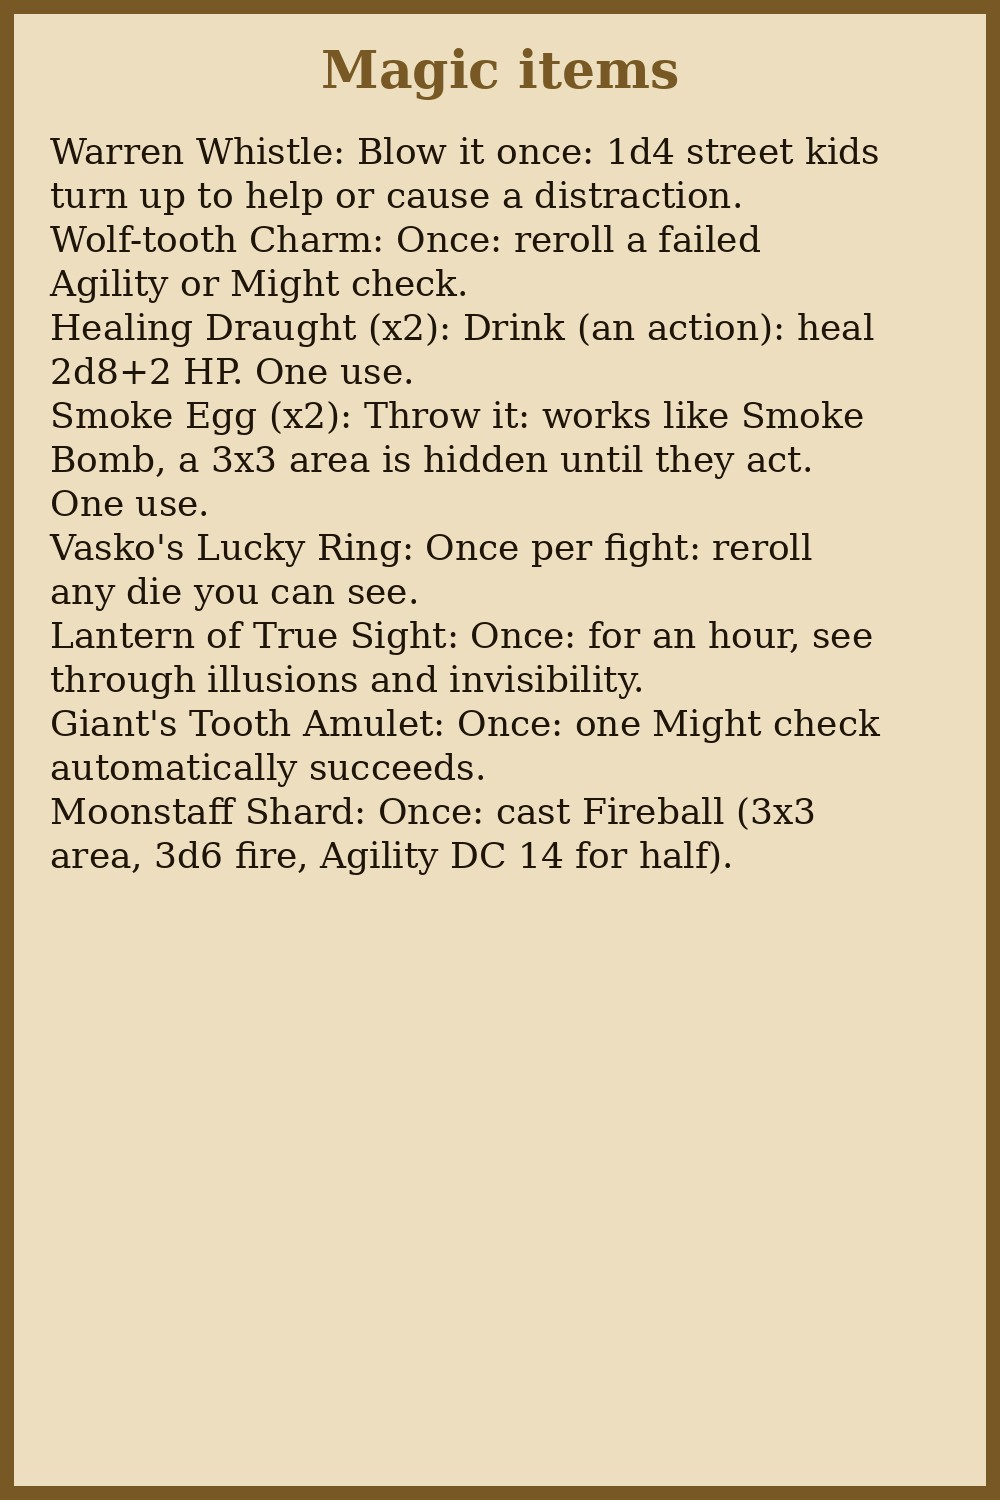
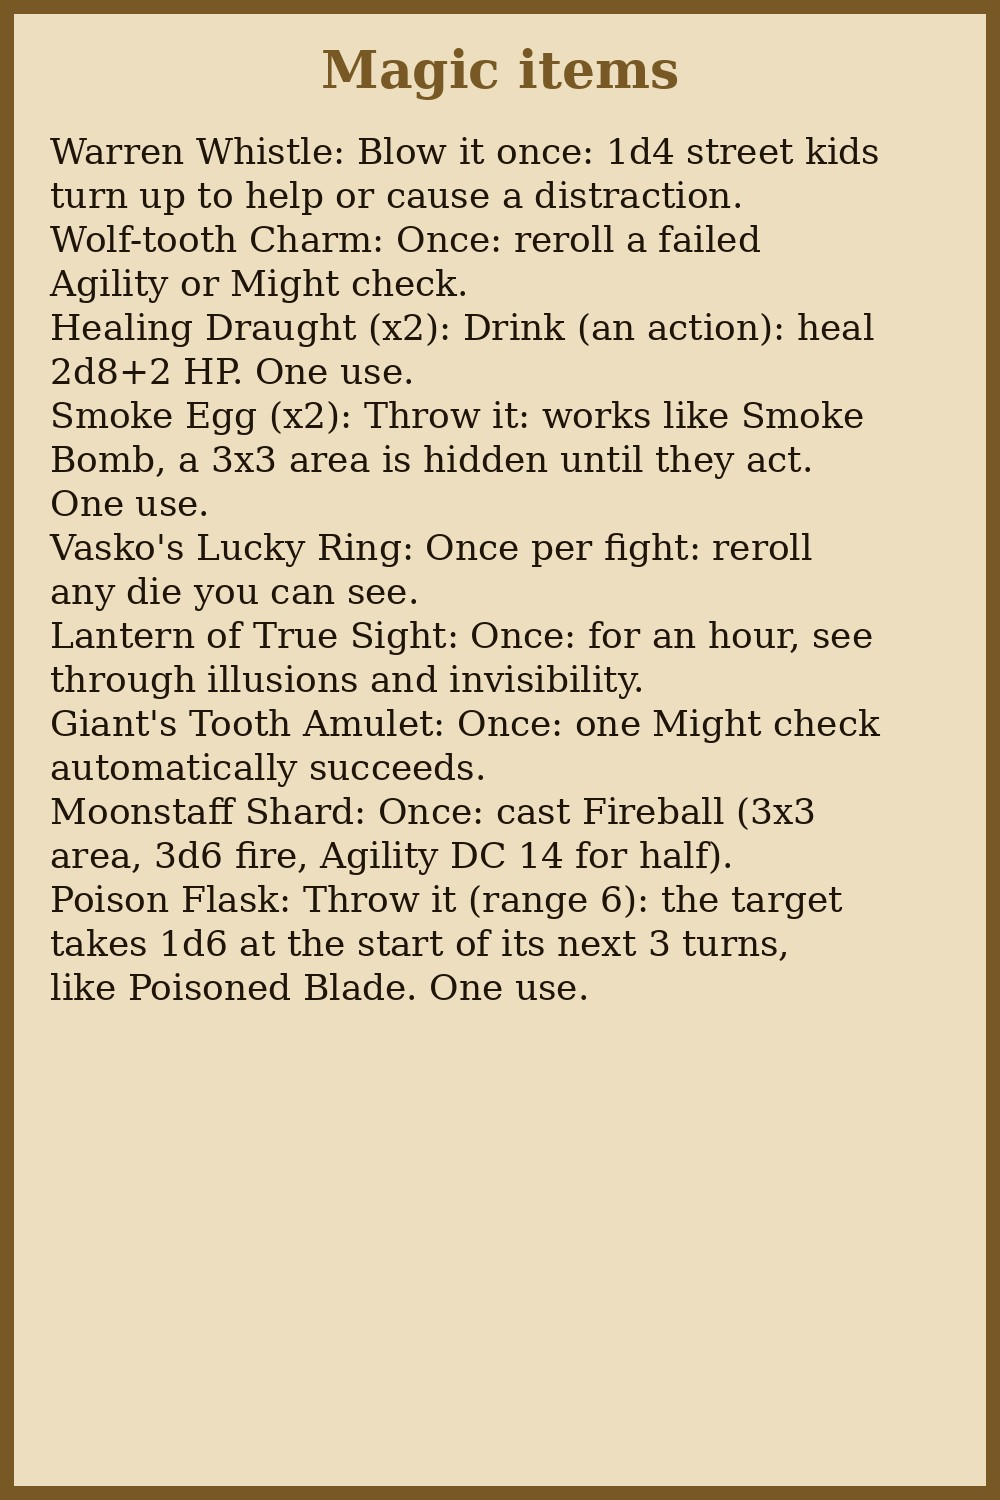
NPC conditions (poison ticks on its turn), Poison Flask item, scene changes frame every camera

Changed region(s): [[0.062, 0.5827, 0.837, 0.6747]]

diff --git a/test_lua.py b/test_lua.py
@@ -568,7 +568,8 @@ for v, effect in ((20, "crit"), (1, "crash"), (12, None)):
     assert (fx() == data_fx[effect]["url"]) if effect else fx() is None, v
 
 # scene buttons fade to black and back around the switch
-g.UIattr["fade.shown"] = ""; c.onSceneButton(g.Player.Black, None, "scene_3")
+g.UIattr["fade.shown"] = ""; g.looked = lua.table_from({}); c.onSceneButton(g.Player.Black, None, "scene_3")
+assert g.looked["Red"].yaw == 0 and g.looked["Red"].pitch == c.CAM.pitch and g.looked["Black"]   # framed, no shake
 assert g.UIattr["fade.shown"] == "+-" and g.UIattr["sceneTitle.text"] == scenes[2]["title"]
 assert 'id="fade"' in g.UIxml and 'raycastTarget="false"' in g.UIxml
 # searching: a chest/barrel without fixed loot, once, with the hero beside it; fixed-loot props have no Search
@@ -584,15 +585,17 @@ assert "searches the" in list(g.log.values())[-1]
 b.menu("Red"); assert "Already searched" in list(g.log.values())[-1]
 # finds land on the table as things players can take: coins, the real item card, or a named loot sack
 loot = lambda: [o for o in g.getObjectsWithTag("loot").values() if o.data.Name != "Die_6"]
-c.dropLoot("gold", "3 gold.", 3, lua.table_from({"x": 0, "z": 0}))
-new = [o for o in loot() if o.data.Nickname == "Gold coin"]
-assert len(new) == 3 and all(not o.data.Locked for o in new)
-c.dropLoot("Healing Draught", "a HEALING DRAUGHT!", 0, lua.table_from({"x": 0, "z": 0}))
-card = [o for o in loot() if o.data.Nickname == "Healing Draught"]
+def drop(item, text, gold):   # just what this drop spawned (the search above may already have left something)
+    old = {o.data.GUID for o in loot()}
+    c.dropLoot(item, text, gold, lua.table_from({"x": 0, "z": 0}))
+    return [o for o in loot() if o.data.GUID not in old]
+new = drop("gold", "3 gold.", 3)
+assert len(new) == 3 and all(o.data.Nickname == "Gold coin" and not o.data.Locked for o in new)
+card = drop("Healing Draught", "a HEALING DRAUGHT!", 0)
 assert len(card) == 1 and card[0].data.Name == "Card" and not card[0].hasTag("gm")
-c.dropLoot("Torch", "a torch.", 0, lua.table_from({"x": 0, "z": 0}))
-torch = [o for o in loot() if o.data.Nickname == "Torch"]
+torch = drop("Torch", "a torch.", 0)
 assert len(torch) == 1 and torch[0].data.Description == "A torch." and "sack" in torch[0].data.CustomMesh.MeshURL and torch[0].data.s is None
+assert drop("Poison Flask", "a POISON FLASK!", 0)[0].data.Name == "Card"
 n = len(loot()); c.dropLoot(None, "Nothing.", 0, lua.table_from({"x": 0, "z": 0})); assert len(loot()) == n
 
 # ---- npc.lua on a giant
@@ -605,7 +608,8 @@ ng.JSON.decode = lambda s: npc.table_from({k: (npc.table_from([npc.table_from(a)
 npc.execute("""
 log, attrs, died, swung = {}, {}, 0, 0
 typed = ""
-Player = setmetatable({}, { __index = function(_, c) return { showInputDialog = function(_, _, cb) cb(typed, c) end } end })
+Player = setmetatable({}, { __index = function(_, c) return { showInputDialog = function(_, _, cb) cb(typed, c) end,
+    showOptionsDialog = function(_, opts, _, cb) cb(opts[picked], picked, c) end } end })
 function damage(color, text) typed = text; menus["Take damage"](color) end
 menus = {}
 self = { getGUID = function() return "npc001" end, addContextMenuItem = function(label, fn) menus[label] = fn end, UI = { setXml = function(x) xml = x end, setAttribute = function(i, k, v) attrs[i .. "." .. k] = tostring(v) end },
@@ -653,6 +657,18 @@ assert {"blood", "puff", "swirl_green", "crit"} <= set(ng.fxlog.values())   # hi
 for n in range(20):
     t, detail = ng.roll("2d8+4")
     assert 6 <= t <= 20 and detail.endswith("+4")
+
+# conditions: GM-only dialog toggles them, shown above the bar; poison bites on the NPC's turn and runs out after 3
+npc.execute("log, picked = {}, 1")
+ng.onLoad(giant["LuaScriptState"])
+ng.menus["Conditions..."]("Red"); assert "Poisoned" not in ng.xml
+ng.menus["Conditions..."]("Black"); assert "Poisoned 3" in ng.xml
+npc.execute("picked = 2"); ng.menus["Conditions..."]("Black"); assert "Frozen 1" in ng.xml
+hp0 = 60   # reloaded from its saved state: full HP
+ng.startTurn(); assert "Poisoned 2" in ng.xml and "Frozen" not in ng.xml and any("poisoned" in m for m in ng.log.values())
+ng.startTurn(); ng.startTurn(); assert "Poisoned" not in ng.xml
+assert 3 <= hp0 - int(ng.attrs["hp.text"].split("/")[0]) <= 18
+npc.execute("picked = 6"); ng.menus["Conditions..."]("Black"); assert ng.condText() == ""   # Clear all
 
 # princess starts lying down at 4 HP; healing stands her up (one die() toggle), not the other way round
 isolde = next(o for s in scenes for o in s["spawns"] if o.get("Nickname") == "Princess Isolde")

diff --git a/build.py b/build.py
@@ -129,6 +129,9 @@ def rules_page(col):
 GOLD = (120, 88, 36)
 
 
+ITEM_ROWS = -(-len(ITEMS) // 4)   # item card sheet: 4 a row
+
+
 def make_item_card(i):
     title, text, _, _ = ITEMS[i]
     im = Image.new("RGB", (500, 700), GOLD)
@@ -216,7 +219,7 @@ def build_images():
         rules_page(RGB[h["color"]]).save(OUT / f"rules_{h['key']}.jpg", quality=90)
         Image.open(RAW / f"portrait_{h['key']}.png").convert("RGB").resize((256, 256)).save(OUT / f"portrait_{h['key']}.jpg")
     Image.open(RAW / "card_back.png").convert("RGB").resize((500, 700)).save(OUT / "card_back.jpg", quality=90)
-    items = Image.new("RGB", (2000, 1400))
+    items = Image.new("RGB", (2000, 700 * ITEM_ROWS))
     for i in range(len(ITEMS)):
         items.paste(make_item_card(i), ((i % 4) * 500, (i // 4) * 700))
     items.save(OUT / "items.jpg", quality=90)
@@ -422,7 +425,7 @@ for f in FX.values():
         f["loop"], f["trig"] = f["trig"] + 2, None
 # cards and items dropped face up on the map: the effect plays where the card lands. Anything unlisted: "swirl_white"
 CARD_FX = {"Shadowstep": "puff", "Backstab": "blood", "Smoke Bomb": "smoke_cloud", "Luck": "swirl_yellow",
-           "Poisoned Blade": "poison", "Cleave": "blood", "Shield Wall": "swirl_blue", "Taunt": "burst_red",
+           "Poisoned Blade": "poison", "Poison Flask": "swirl_green", "Cleave": "blood", "Shield Wall": "swirl_blue", "Taunt": "burst_red",
            "Second Wind": "swirl_green", "Mighty Heave": "puff", "Mending Touch": "swirl_green",
            "Prayer of Light": "burst_yellow", "Blessing": "swirl_yellow", "Sanctuary": "burst_white", "Revive": "burst_yellow",
            "Kind Heart": "swirl_red", "Fireball": "fireball", "Shrink": "swirl_purple", "Levitate": "swirl_white",
@@ -574,7 +577,7 @@ def gm_objects(base):
                        grid={"x": X0 + TRAY[0] - 0.6 + 0.6 * (n % 3), "z": TRAY[1] - 0.45 + 0.9 * (n // 3), "k": "tile",
                              "s": [1, 1, 1], "lift": 1.5}))
     deck = {"FaceURL": f"{base}art/out/items.jpg", "BackURL": f"{base}art/out/card_back.jpg", "NumWidth": 4,
-            "NumHeight": 2, "BackIsHidden": True, "UniqueBack": False, "Type": 0}
+            "NumHeight": ITEM_ROWS, "BackIsHidden": True, "UniqueBack": False, "Type": 0}
     spots = [(X0 + x, z) for x in (1.3, 3.4, 5.5) for z in (3.9, 5.4, 6.9, 8.4)]   # tight block, top right
     cards = [(i, name, text) for i, (name, text, _, k) in enumerate(ITEMS) for _ in range(k)]
     for n, ((i, name, text), (x, z)) in enumerate(zip(cards, spots)):
@@ -655,6 +658,8 @@ def gm_guide():
            "- Players join and click their adventurer on the pick panel. Their seat changes, cards are dealt automatically.",
            "- Right-click an NPC (GM-only entries): *Take damage* (`12` hurts, `-5` heals; or hover and type the number),",
            "  and one entry per attack. Attacks whisper the roll to you (Black); crits add an extra set of damage dice.",
+           "- *Conditions...* on an NPC: Poisoned (3 turns), Frozen, Blinded, Shrunk, Prone (1 turn); pick again to remove.",
+           "  They show above its bar. On its turn (Next turn) poison deals 1d6 by itself; the others whisper you a reminder.",
            "- Giants also have *Grab nearest hero* (within 6 squares, held up in the fist), then *Throw the hero* (4-6 squares,",
            "  2d6, prone) or *Let go* (they broke free, Might DC 14). Revealing the chainmaster shakes the ground.",
            "- Fireballs leave scorch marks until the scene changes. A hero's natural 20 / natural 1 on their d20 gets a flourish.",

diff --git a/content.py b/content.py
@@ -549,6 +549,7 @@ LOOT = [   # (weight, text, what turns up on the table: False (nothing), "gold" 
     (5, "a guild token: Vasko's men will take it as a bribe.", "Guild token"),
     (3, "a HEALING DRAUGHT!", "Healing Draught"),
     (3, "a SMOKE EGG!", "Smoke Egg"),
+    (4, "a POISON FLASK!", "Poison Flask"),
 ]
 
 ITEMS = [
@@ -568,6 +569,8 @@ ITEMS = [
      "a huge yellowed giant's tooth carved with swirling spiral patterns hanging from a thick braided rope on dark stone", 1),
     ("Moonstaff Shard", "Once: cast Fireball (3x3 area, 3d6 fire, Agility DC 14 for half).",
      "a broken shard of a silver staff with a glowing crescent moon crystal, sparks of light", 1),
+    ("Poison Flask", "Throw it (range 6): the target takes 1d6 at the start of its next 3 turns, like Poisoned Blade. One use.",
+     "a small cracked clay flask of bubbling green poison with a rag stopper on a dark wooden table, green fumes", 1),
 ]
 # per scene: 360 backdrop around the table (prompt) and the mood light (colour, brightness x the default)
 SKY_STYLE = ("An equirectangular 360 degree panorama, seen from eye level. A painterly dark fantasy illustration "

diff --git a/GM_GUIDE.md b/GM_GUIDE.md
@@ -6,6 +6,8 @@
 - Players join and click their adventurer on the pick panel. Their seat changes, cards are dealt automatically.
 - Right-click an NPC (GM-only entries): *Take damage* (`12` hurts, `-5` heals; or hover and type the number),
   and one entry per attack. Attacks whisper the roll to you (Black); crits add an extra set of damage dice.
+- *Conditions...* on an NPC: Poisoned (3 turns), Frozen, Blinded, Shrunk, Prone (1 turn); pick again to remove.
+  They show above its bar. On its turn (Next turn) poison deals 1d6 by itself; the others whisper you a reminder.
 - Giants also have *Grab nearest hero* (within 6 squares, held up in the fist), then *Throw the hero* (4-6 squares,
   2d6, prone) or *Let go* (they broke free, Might DC 14). Revealing the chainmaster shakes the ground.
 - Fireballs leave scorch marks until the scene changes. A hero's natural 20 / natural 1 on their d20 gets a flourish.
